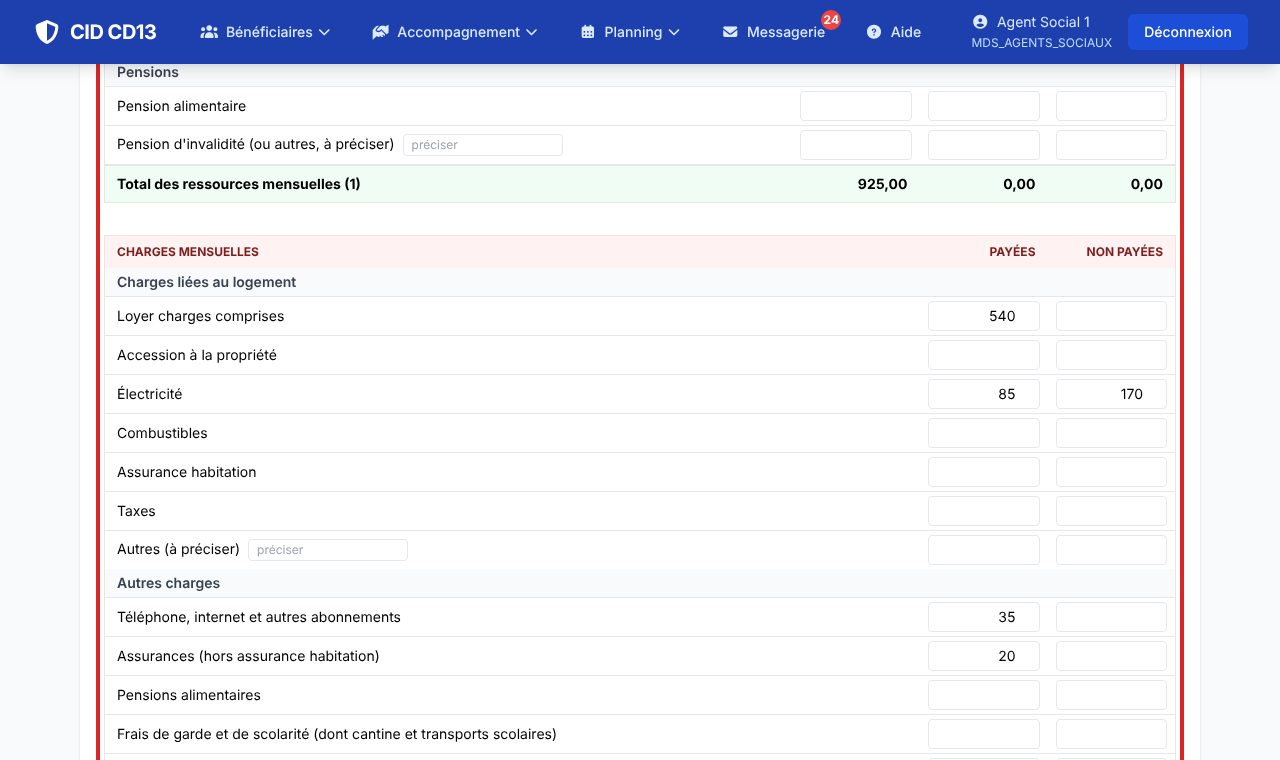
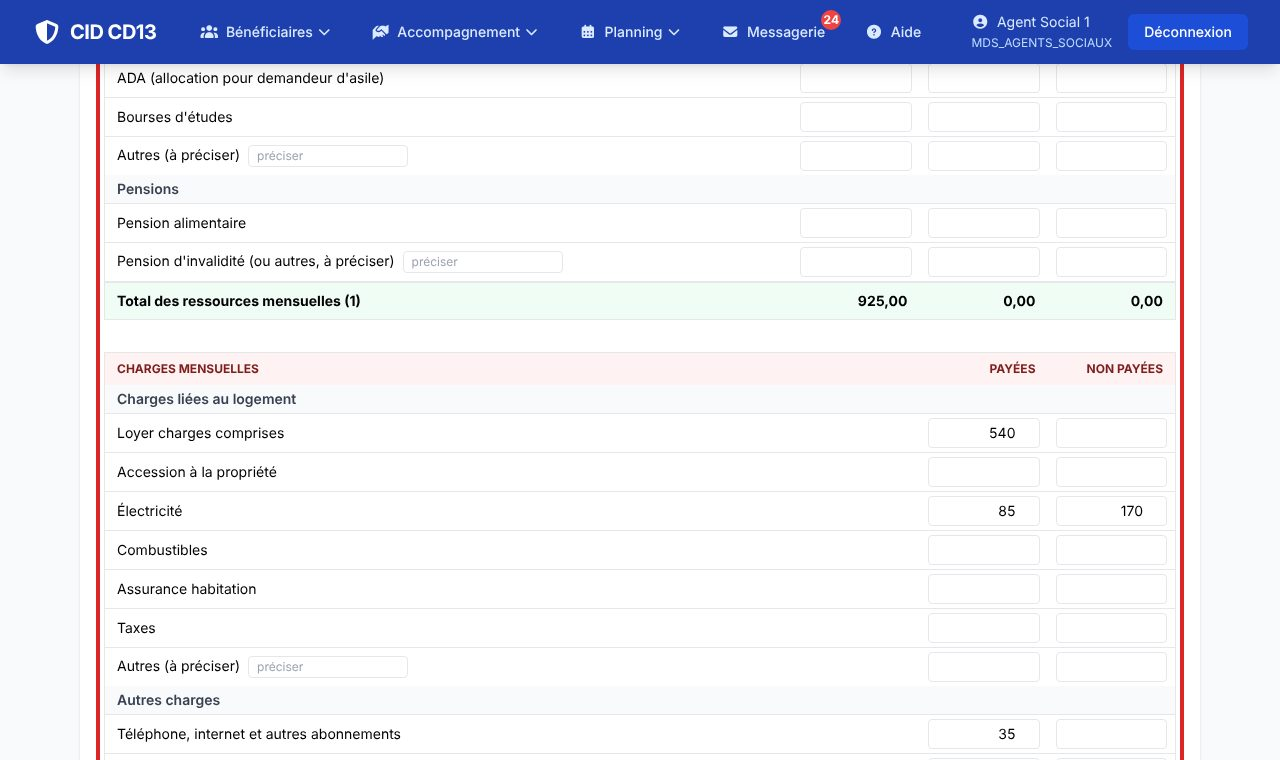
Budget : une ligne par prestation (grille commune budget du foyer / AFASE)
Grille validée par Fred : aides au logement, allocations familiales, complément familial, ASF, PAJE, PreParE, prime
d'activité, AAH et complément, AEEH et complément, PCH, ADA, bourses, autres. Les aides relevées sur l'accès
partenaire CAF vont chacune sur leur ligne (plus d'additions, PCH ajoutée). Démo et captures d'aide mises à jour.

Claude-Session: https://claude.ai/code/session_01LMzydkXKMi7LoNVymuiMW1

diff --git a/connecteurs/models.py b/connecteurs/models.py
@@ -520,12 +520,13 @@ class EcartSituation(models.Model):
 class PrestationRelevee(models.Model):
     """Montant d'une prestation relevé par un agent sur l'accès partenaire CAF (saisie facultative)."""
     PRESTATIONS = [
-        ('RSA', "RSA", 'rsa'), ('PRIME_ACTIVITE', "Prime d'activité", 'autres_prestations'),
-        ('AL', "Aide au logement (AL, APL, ALS, ALF)", 'logement'), ('AF', "Allocations familiales", 'familiales'),
-        ('CF', "Complément familial", 'familiales'), ('ASF', "Allocation de soutien familial", 'familiales'),
-        ('PAJE', "PAJE (allocation de base, CMG…)", 'familiales'), ('PREPARE', "PreParE", 'prepare'),
-        ('AAH', "AAH (et complément)", 'aah'), ('AEEH', "AEEH (et complément)", 'aah'),
-        ('AUTRE', "Autre prestation CAF", 'autres_prestations'),
+        ('RSA', "RSA", 'rsa'), ('PRIME_ACTIVITE', "Prime d'activité", 'prime_activite'),
+        ('AL', "Aides au logement (AL, APL, ALS, ALF)", 'logement'), ('AF', "Allocations familiales", 'familiales'),
+        ('CF', "Complément familial", 'complement_familial'), ('ASF', "Allocation de soutien familial", 'asf'),
+        ('PAJE', "PAJE (allocation de base, prime à la naissance, mode de garde)", 'paje'),
+        ('PREPARE', "PreParE", 'prepare'), ('AAH', "AAH et complément", 'aah'), ('AEEH', "AEEH et complément", 'aeeh'),
+        ('PCH', "PCH (versée par le Département, pas par la CAF)", 'pch'),
+        ('AUTRE', "Autre prestation (à préciser dans le budget)", 'autres_prestations'),
     ]
     beneficiaire = models.ForeignKey('beneficiaire.Beneficiaire', on_delete=models.CASCADE, related_name='prestations_relevees')
     prestation = models.CharField(max_length=20, choices=[(c, l) for c, l, _ in PRESTATIONS])

diff --git a/connecteurs/migrations/0008_prestations_une_ligne.py b/connecteurs/migrations/0008_prestations_une_ligne.py
@@ -1,0 +1,43 @@
+# =============================================================================
+# © AGPL3 - CID - Developpeur : Frederic COTTA
+# Assistance technique: l'IA
+# Interdiction de réutilisation commerciale
+# =============================================================================
+# connecteurs/migrations/0008_prestations_une_ligne.py
+# Generated by Django 6.0 on 2026-11-06 21:44
+
+from django.db import migrations, models
+
+
+class Migration(migrations.Migration):
+
+    dependencies = [
+        ("connecteurs", "0007_ecarts_prestations"),
+    ]
+
+    operations = [
+        migrations.AlterField(
+            model_name="prestationrelevee",
+            name="prestation",
+            field=models.CharField(
+                choices=[
+                    ("RSA", "RSA"),
+                    ("PRIME_ACTIVITE", "Prime d'activité"),
+                    ("AL", "Aides au logement (AL, APL, ALS, ALF)"),
+                    ("AF", "Allocations familiales"),
+                    ("CF", "Complément familial"),
+                    ("ASF", "Allocation de soutien familial"),
+                    (
+                        "PAJE",
+                        "PAJE (allocation de base, prime à la naissance, mode de garde)",
+                    ),
+                    ("PREPARE", "PreParE"),
+                    ("AAH", "AAH et complément"),
+                    ("AEEH", "AEEH et complément"),
+                    ("PCH", "PCH (versée par le Département, pas par la CAF)"),
+                    ("AUTRE", "Autre prestation (à préciser dans le budget)"),
+                ],
+                max_length=20,
+            ),
+        ),
+    ]

diff --git a/connecteurs/test_droits.py b/connecteurs/test_droits.py
@@ -117,12 +117,16 @@ class DroitsTests(TestCase):
         self.actualiser(["FT_PAIEMENTS"])
         self.c.post("/connecteurs/usager/DR-1/situation/aides/", {
             "date_releve": "2026-11-05", "p_RSA": "1", "m_RSA": "635,70", "p_AL": "1", "m_AL": "280",
+            "p_PRIME_ACTIVITE": "1", "m_PRIME_ACTIVITE": "187,40", "p_ASF": "1", "m_ASF": "199",
             "m_AF": "999"})                                                         # non cochée : ignorée
-        self.assertEqual(PrestationRelevee.objects.count(), 2)
+        self.assertEqual(PrestationRelevee.objects.count(), 4)
         r = self.c.get("/beneficiaire/DR-1/budget/nouveau/?depuis=caf")
         self.assertContains(r, "montants CAF relevés le 05/11/2026")
         self.assertContains(r, 'value="635.70"')
         self.assertContains(r, 'value="900.00"')                                  # chômage = moyenne FT
+        # une ligne par aide : prime d'activité et ASF ont chacune la leur
+        self.assertContains(r, 'name="r__prime_activite__demandeur" value="187.40"')
+        self.assertContains(r, 'name="r__asf__demandeur" value="199.00"')
 
     def test_reseau_familial_et_bouton_caf(self):
         r = self.c.get("/beneficiaire/DR-1/")

diff --git a/AidFi/services/budget_afase.py b/AidFi/services/budget_afase.py
@@ -31,11 +31,17 @@ RESSOURCES = [
         ('autres_activite', "Autres (à préciser)"),
     ]),
     ("Prestations sociales", [
-        ('logement', "Allocations logement (AL, APL, ALS, ALF, RLS)"),
+        ('logement', "Aides au logement (AL, APL, ALS, ALF, RLS)"),
         ('familiales', "Allocations familiales"),
-        ('aah', "AAH et complément AAH, PCH, AEEH"),
+        ('complement_familial', "Complément familial"),
+        ('asf', "Allocation de soutien familial (ASF)"),
+        ('paje', "PAJE (allocation de base, prime à la naissance, complément mode de garde)"),
         ('prepare', "PreParE"),
-        ('ada', "ADA"),
+        ('prime_activite', "Prime d'activité"),
+        ('aah', "AAH et complément AAH"),
+        ('aeeh', "AEEH et complément"),
+        ('pch', "PCH (prestation de compensation du handicap)"),
+        ('ada', "ADA (allocation pour demandeur d'asile)"),
         ('bourses', "Bourses d'études"),
         ('autres_prestations', "Autres (à préciser)"),
     ]),

diff --git a/core/demo_presentation.py b/core/demo_presentation.py
@@ -169,6 +169,10 @@ def creer(cmd):
                     res["aah"] = 1016
                 if len(enfants) >= 2:
                     res["familiales"] = 148 if len(enfants) == 2 else 338
+                if profil == "monoparentale" and r.random() < 0.5:
+                    res["asf"] = 199 * len(enfants)
+                if not rsa and profil != "senior" and r.random() < 0.3:
+                    res["prime_activite"] = r.randint(90, 260)
                 res["logement"] = r.randint(220, 420) if rsa else r.randint(80, 300)
                 loyer = r.randint(480, 860)
                 elec = r.randint(45, 130)

diff --git a/docs/IMPORT_DROITS.md b/docs/IMPORT_DROITS.md
@@ -30,11 +30,12 @@ L'agent corrige la fiche puis clique **Réglé** (commentaire facultatif) : rég
 - Bouton **« Accès partenaire CAF »** : ouvre le site de la CAF dans un nouvel onglet (habilitation personnelle de
   l'agent). CID n'y lit rien. Adresse : variable `CAF_PARTENAIRE_URL` ou paramètre `CAF_PARTENAIRE_URL` de
   l'administration (par défaut https://partenaires.caf.fr/).
-- **« Actualiser les aides »** (facultatif) : fenêtre avec les prestations (RSA, prime d'activité, aide au logement,
-  allocations familiales, complément familial, ASF, PAJE, PreParE, AAH, AEEH, autre) ; l'agent coche celles qu'il a
+- **« Actualiser les aides »** (facultatif) : fenêtre avec les prestations (RSA, prime d'activité, aides au logement,
+  allocations familiales, complément familial, ASF, PAJE, PreParE, AAH, AEEH, PCH — versée par le Département —,
+  autre) ; l'agent coche celles qu'il a
   vérifiées et saisit le montant mensuel. Chaque relevé est daté et signé ; le dernier de chaque prestation s'affiche.
-- **Budget du foyer** : « Reprendre dans un nouveau budget du foyer » pré-remplit les lignes correspondantes avec les
-  montants relevés et la ligne chômage avec la moyenne France Travail ; l'agent vérifie avant d'enregistrer.
+- **Budget du foyer** : « Reprendre dans un nouveau budget du foyer » pré-remplit **la ligne de chaque aide** (une ligne
+  par prestation dans la grille, depuis novembre 2026) avec les montants relevés et la ligne chômage avec la moyenne France Travail ; l'agent vérifie avant d'enregistrer.
 
 ## 4. Réseau familial
 Sous l'encart, chaque personne du réseau familial qui a une fiche (conjoint, grands-parents tiers digne de confiance,
